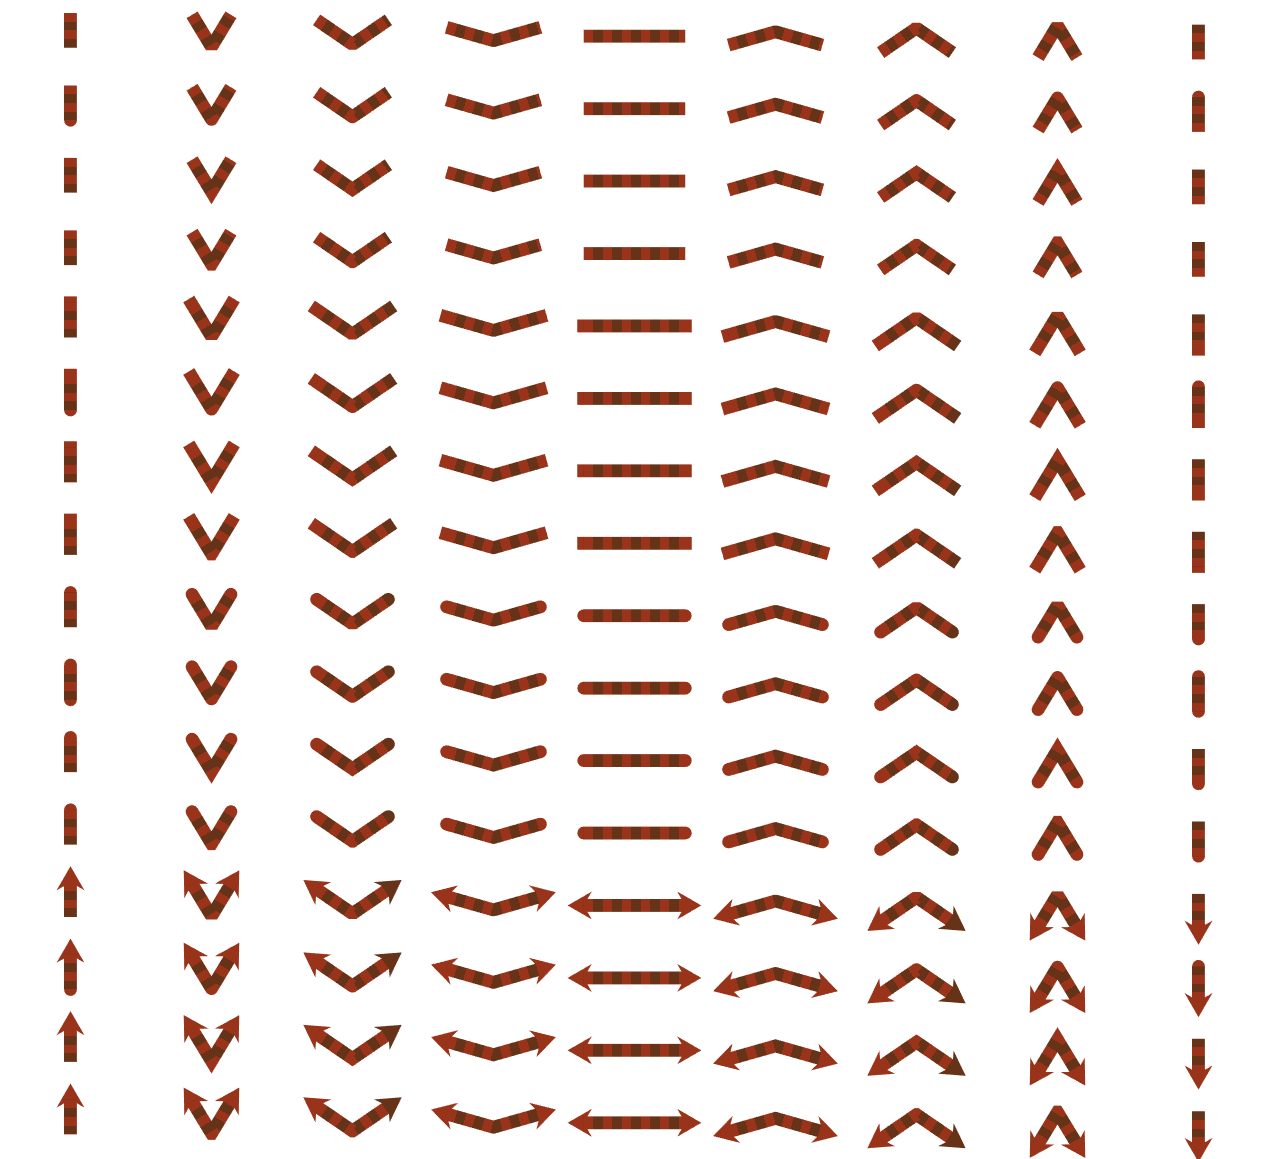
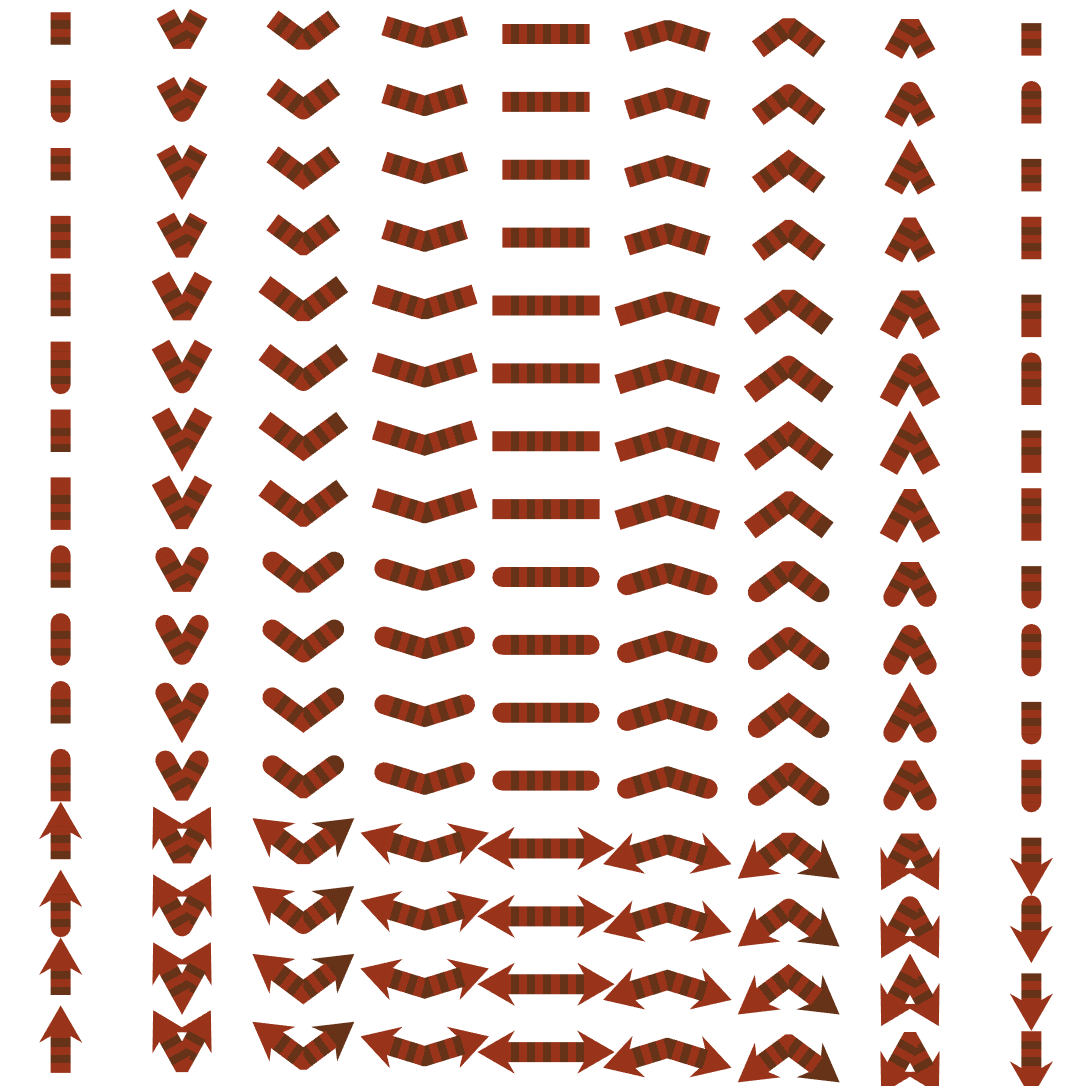
Reverse miter implementation

diff --git a/src/base.ts b/src/base.ts
@@ -76,6 +76,18 @@ export type CreateLineOptions = {
    */
   postprocessVerticesGLSL?: GLSL;
   /**
+   * Optional GLSL code that runs at the end of main() function body.
+   * Useful to compute aditional varyings based on some values
+   * computed previously.
+   */
+  mainEndGLSL?: GLSL;
+  /**
+   * How far up the segment can a reverse miter go. Default is .5.
+   * Anything larger than .5 has a probability of failure, but allows
+   * sharper angles to still be reverse-mitered.
+   */
+  reverseMiterLimit?: number;
+  /**
    * For setting to lines for debugging
    */
   primitive?: REGL.DrawConfig['primitive'];
@@ -95,6 +107,8 @@ export function createLineBase(
     joinCount = 4,
     defineVerticesGLSL,
     postprocessVerticesGLSL,
+    mainEndGLSL,
+    reverseMiterLimit = 0.5,
     primitive = 'triangles'
   }: CreateLineOptions
 ) {
@@ -191,35 +205,69 @@ export function createLineBase(
           vec2 p1a = t12.xy, p1b = t01.xy, p1c = t12.zw, p1d = t01.zw;
           vec2 p2a = t12.zw, p2b = t23.zw, p2c = t12.xy, p2d = t23.xy;
 
-          // choose p,a,b,c,d
+          // choose
           vec4 p;
-          vec2 a, b, c, d;
+          vec2 a, b, c, d, sab, scd;
           if(vertex.x < 0.0) {
-            p = clip1; a = p1a; b = p1b; c = p1c; d = p1d;
+            p = clip1;
+            a = p1a; b = p1b;
+            c = p1c; d = p1d;
+            sab = -p0p1; scd = p1p2;
           } else {
-            p = clip2; a = p2a; b = p2b; c = p2c; d = p2d;
+            p = clip2;
+            a = p2a; b = p2b;
+            c = p2c; d = p2d;
+            sab = p2p3; scd = -p1p2;
           }
+
+          bool isCap = b == vec2(0.0);
+
+          // values required to potentially account for reverse miter
+          float reverseMiterLimit = ${reverseMiterLimit.toFixed(4)};
+          vec2 abrevmiter = miterPoint(a, b);
+          vec2 cdrevmiter = miterPoint(c, d);
+          float sablen2 = dot(sab, sab);
+          float scdlen2 = dot(scd, scd);
+          float ababmitlen = dot(sab, abrevmiter) * width / sablen2;
+          float abcdmitlen = dot(sab, cdrevmiter) * width / sablen2;
+          float cdabmitlen = dot(scd, abrevmiter) * width / scdlen2;
+          float cdcdmitlen = dot(scd, cdrevmiter) * width / scdlen2;
 
           vec2 final = vec2(0.0);
           vec2 dir = vertex.x * normalize(p1p2);
           if (vertex.y == -1.0) {
-            // just a c coordinate
+            // account for reverse miter
+            if (!isCap && cdcdmitlen > 0.0 &&
+                cdcdmitlen < reverseMiterLimit &&
+                abcdmitlen < reverseMiterLimit) {
+              c = cdrevmiter;
+              vUv.x -= vertex.x * cdcdmitlen;
+            }
             final = c;
           } else if (vertex.y == 1.0) {
             // interpolate a to b (cap or join)
-            if(b == vec2(0.0)){
+            if(isCap){
               if (vertex.x < 0.5) {
                 final = startCap(dir, a, vertex.z);
               } else {
                 final = endCap(dir, a, vertex.z);
               }
             } else {
+              // account for reverse miter
+              if (ababmitlen > 0.0 &&
+                  ababmitlen < reverseMiterLimit &&
+                  cdabmitlen < reverseMiterLimit) {
+                a = b = abrevmiter;
+                vUv.x -= vertex.x * cdabmitlen;
+              }
               final = join(a, b, vertex.z);
             }
           }
 
           gl_Position = p;
           gl_Position.xy += final * width * p.w / halfRes;
+
+          ${mainEndGLSL}
         }
       `,
       primitive,

diff --git a/demo/tests/interaction.ts b/demo/tests/interaction.ts
@@ -4,12 +4,9 @@ import { glsl } from '../../src/glsl';
 
 export function main(regl: Regl) {
   const lines3dcmd = createLines3D(regl, {
-    join: JoinType.miterSquare,
-    cap: {
-      start: CapType.arrow(),
-      end: CapType.butt
-    },
-    primitive: 'line strip',
+    join: JoinType.round,
+    cap: CapType.butt,
+    // primitive: 'line strip',
     joinCount: 8,
     frag: glsl`
       precision highp float;
@@ -19,10 +16,12 @@ export function main(regl: Regl) {
         if(gl_FrontFacing) {
           float dash = floor(0.5 + mod(distanceAlongPath.x, 0.05) / 0.05);
           vec3 color = dash > 0.5 ? vec3(.4, .2, .1) : vec3(.6, .2, .1);
-          // gl_FragColor = vec4(color, 1.0);
+          gl_FragColor = vec4(color, 1.0);
           // gl_FragColor = vec4(0.0, distanceAlongPath.y, 0.0, 1.0);
           // gl_FragColor = vec4(0.0, 0.0, 0.0, 1.0);
-          gl_FragColor = vec4(vUv, 0.0, 1.0);
+          float radial = 1.-abs(0.5 - vUv.y)*2.;
+          // gl_FragColor = vec4(radial, 0.0, 0.0, 1.0);
+          gl_FragColor = vec4(sin(vUv.y*30.), 0.0, 0.0, 1.0);
         } else {
           gl_FragColor = vec4(1.0, 0.0, 0.0, 1.0);
         }
@@ -32,14 +31,14 @@ export function main(regl: Regl) {
 
   const points: [number, number, number][][] = [
     [
-      [0, 0, 0],
+      [-.2, 0.2, 0],
       [0.2, 0, 0],
       [0.15, 0.6, 0],
       [0.6, 0.4, 0],
       [0.7, 0.3, 0],
       [0.7, -0.5, 0],
-      [0.5, -0.5, 0],
-      [0.8, -0.5, 0]
+      [0.2, -0.5, 0],
+      // [0.9, -0.5, 0]
     ],
     [
       [-0.15, 0.7, 0],
@@ -49,14 +48,15 @@ export function main(regl: Regl) {
     [
       [-0.15, -0.8, 0],
       [-0.6, -0.6, 0],
-      [-0.4, 0., 0],
+      [-0.3, 0., 0],
     ]
   ];
-  document.addEventListener('mousemove', m => {
-    points[0][0][0] = 2 * m.clientX / window.innerWidth - 1;
-    points[0][0][1] = -2 * m.clientY / window.innerHeight + 1;
-  });
+  // document.addEventListener('mousemove', m => {
+  //   points[0][0][0] = 2 * m.clientX / window.innerWidth - 1;
+  //   points[0][0][1] = -2 * m.clientY / window.innerHeight + 1;
+  // });
   regl.frame(ctx => {
+    regl._gl.lineWidth(3);
     regl.clear({ color: [1, 1, 1, 1] });
     lines3dcmd.setLines(points.map((line, i) => ({
       points: line,
@@ -64,7 +64,7 @@ export function main(regl: Regl) {
       closed: i === 1
     })));
     // lines3dcmd.setWidth(40 * (0.25 * Math.sin(ctx.time) + 1));
-    lines3dcmd.setWidth(100);
+    lines3dcmd.setWidth(50);
     lines3dcmd.render();
   });
 }

diff --git a/src/lines3D.ts b/src/lines3D.ts
@@ -32,6 +32,7 @@ export function createLines3D(
     declarationsGLSL,
     defineVerticesGLSL,
     postprocessVerticesGLSL,
+    mainEndGLSL,
     cameraTransform = defaultCameraTransform,
     distanceFn = vec3.distance,
     ...linesBaseOptions
@@ -80,9 +81,12 @@ export function createLines3D(
     `,
     defineVerticesGLSL: glsl`
       p0 = ap0, p1 = ap1, p2 = ap2, p3 = ap3;
-      distanceAlongPath = vertex.x < 0.5 ? ad1 : ad2;
       skip = askip;
       ${defineVerticesGLSL}
+    `,
+    mainEndGLSL: glsl`
+      distanceAlongPath = mix(ad1, ad2, vUv.x);
+      ${mainEndGLSL}
     `
   });
   const cmd = regl({

diff --git a/demo/tests/combinations.ts b/demo/tests/combinations.ts
@@ -37,7 +37,7 @@ export function main(regl: Regl) {
   const linecmds = capjoin.map(({ cap, join }) => createLines3D(regl, {
     cap,
     join,
-    primitive: 'line strip',
+    // primitive: 'line strip',
     joinCount: 8,
     frag: glsl`
       precision highp float;

diff --git a/README.md b/README.md
@@ -13,7 +13,9 @@ Features:
 - GLSL injectable to tailor to your needs (e.g. do you have a non-linear camera?)
 - full type support
 
-![Example](static/example.png)
+| ![](static/example_fill.png) | ![](static/example_wire.png) |
+|------------------------------|--------------------------|
+| ![](static/example_uv.png) | ![](static/example_decoration.png) |
 
 There are two ways to use this library:
 - extend the lower level base
@@ -78,14 +80,15 @@ Very much WIP
 | cap | `string` (GLSL) or `{ start: GLSL; end: GLSL; }` | `CapType.butt` | Any of `CapType`s or your own custom GLSL function. Supported: `butt`, `square`, `round` |
 | join | `string` (GLSL) | `JoinType.bevel` | Any of `JoinType`s or your own custom GLSL function. Supported: `bevel`, `miter`, `round`, `miterSquare` |
 | joinCount | `int` | `3` | Number of triangles approximating the joins. NOTE: joins (like miter or round) effectively become bevel joins when set to 1. |
+| reverseMiterLimit | `number` | `0.5` | How far up the segment can a reverse miter go. Anything more than `0.5` runs a risk of failure, but allows sharper angles to still be reverse mitered. |
 | frag | `string` (GLSL) | fill white | Fragment shader, gets the following varying: `vec2 vUv;` uv coordinate of the segment. |
 | primitive | regl's primitive type | `triangles` | Used for debug when rendering with `lines` for example |
 | declarationsGLSL | `string` (GLSL) | identity | GLSL declarations code. At least `vec4 cameraTransform(vec4 pos);`. Useful for custom attributes. |
 | defineVerticesGLSL | `string` (GLSL) | `undefined` | Non-optional when using just the base. Must define at least `vec3 p0, p1, p2, p3;` |
 | postprocessVerticesGLSL | `string` (GLSL) | `undefined` | Optional GLSL code that modifies clip or screen-space coordinates. |
+| mainEndGLSL | `string` (GLSL) | `undefined` | Optional GLSL code that runs at the end of main body. |
 
 ## Future Improvements
-- correctly tesselate joins when possible (right now segments just overlap always)
 - provide a few default fragment shaders (e.g. dashes)
 
 ## Combination Test
